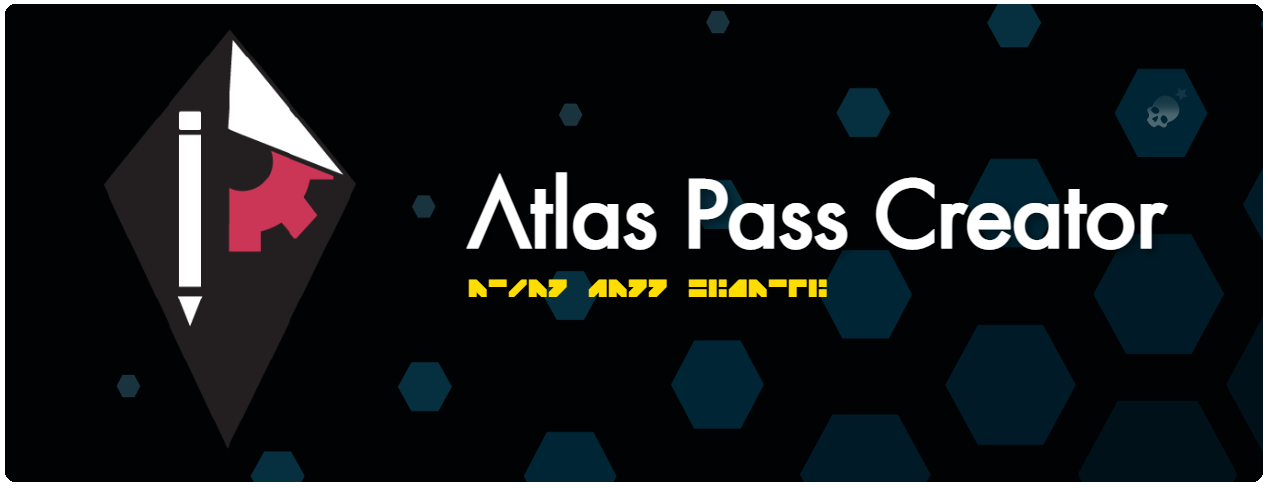
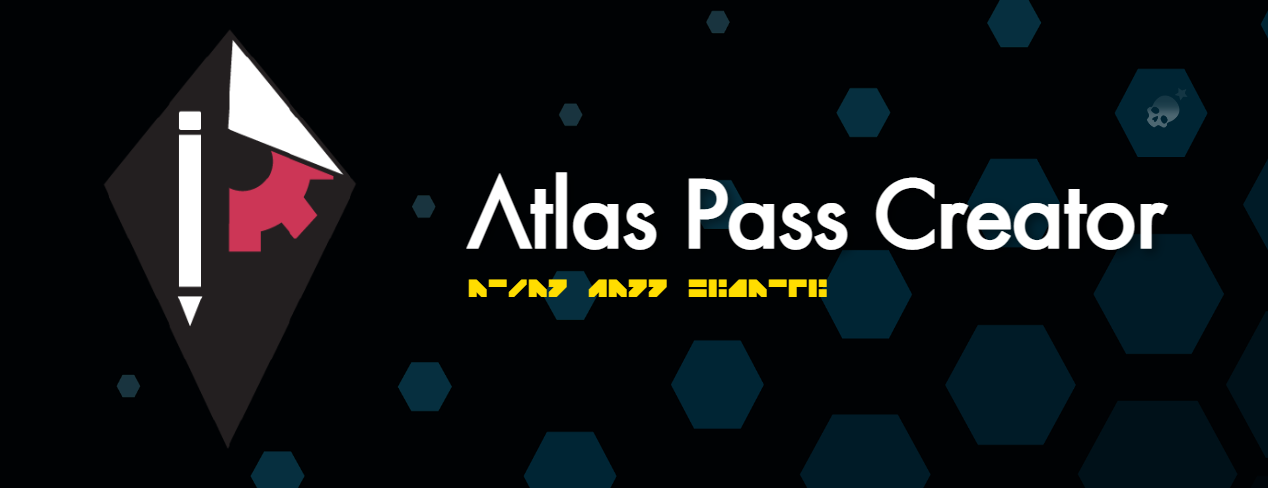
use new image

Changed region(s): [[0.0, 0.0, 1.0, 1.0]]

diff --git a/README.md b/README.md
@@ -1,6 +1,6 @@
 <div align="center">
   
-  ![header](./.github/images/banner.png)
+  ![header](./.github/images/banner v1.png)
   
   <br />
   
